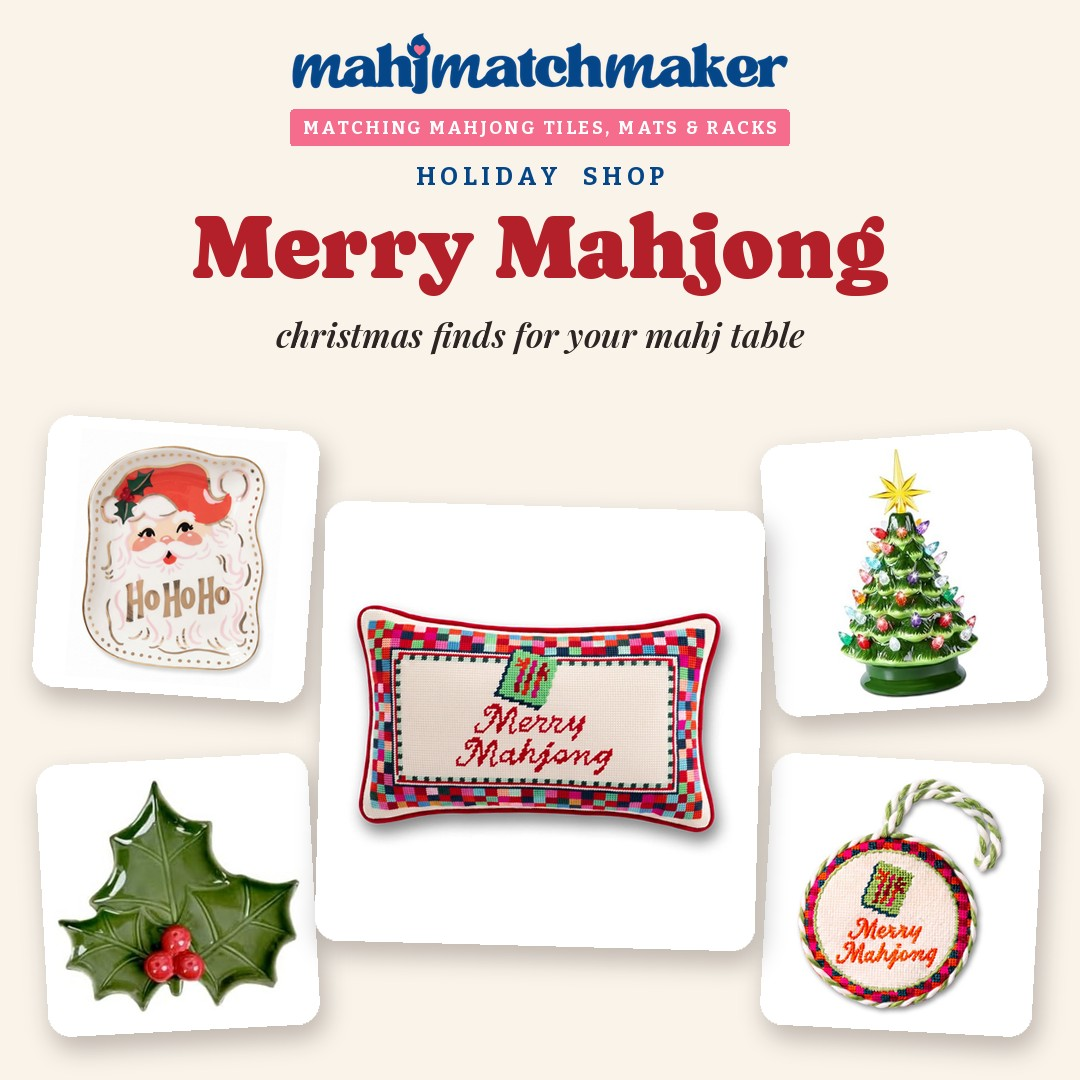
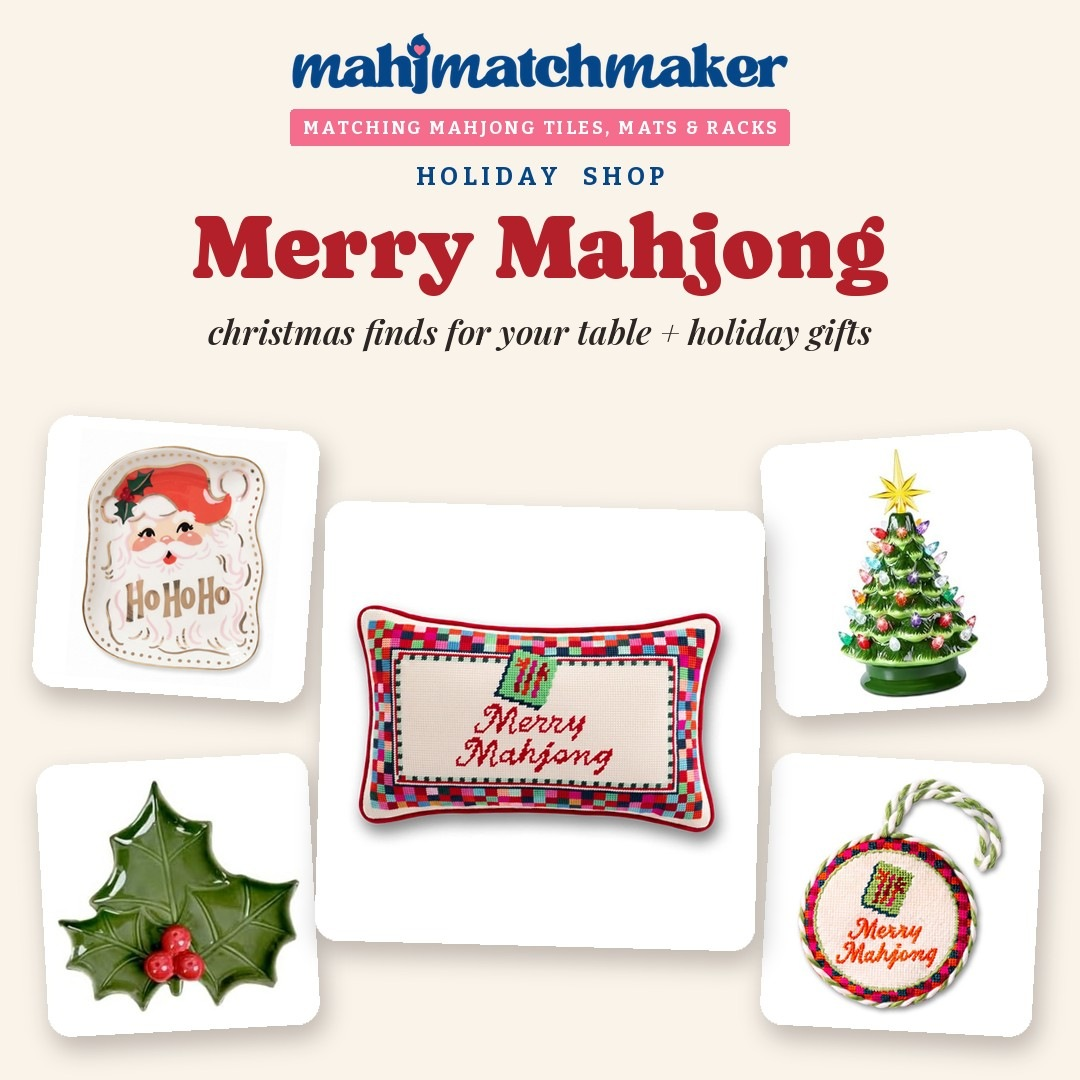
ShopMy Merry Mahjong cover: table finds + holiday gifts
Claude-Session: https://claude.ai/code/session_01PiwamzEftkvrKP5d7A1QEB

Changed region(s): [[0.1833, 0.275, 0.7944, 0.3361]]

diff --git a/scripts/shopmy/make_covers.py b/scripts/shopmy/make_covers.py
@@ -97,7 +97,7 @@ COVERS = [
   [96127861, 96127725, 96127601, 96130241, 96129673]),
  (8399799, 'mahjong-storage', 'Mahjong Storage', 'bags and totes for your set', 'storage', '#054689', 3,
   [96214131, 95958946, 96229865]),
- (8399927, 'merry-mahjong', 'Merry Mahjong', 'christmas finds for your mahj table', 'holiday shop', '#b3202a', 5,
+ (8399927, 'merry-mahjong', 'Merry Mahjong', 'christmas finds for your table + holiday gifts', 'holiday shop', '#b3202a', 5,
   [96216077, 96226001, 96232169, 96232833, 96216391]),
  (8399777, 'mahjong-gifts', 'Mahjong Gifts', 'for every mahj friend on your list', 'gift guide', '#b3202a', 5,
   [96216286, 96213699, 96217133, 96213080, 96213309]),

diff --git a/docs/ANSWERS.md b/docs/ANSWERS.md
@@ -159,3 +159,4 @@ Format: `- YYYY-MM-DD HH:MM · chat · topic · her answer in her words (short) 
 - 2026-10-25 5:54pm: Tiffany: the template samples were built on an OLD match card; she can't judge them. Social mock-ups must always use the CURRENT Find Your Mat-ch card (live artifact 6epA9HuEdT32zUp79Qv3kd). Redo the samples from the live card · DESK Canva item updated.
 - 2026-10-25 5:56pm: Tiffany wants a brand OUTREACH page (for when she contacts a brand first; no "tell me about your brand" ask on it) + a permanent copy-paste outreach blurb in HQ (hq/snippets). First use: Backyard Yacht Club (wooden racks; the site is thin on wooden racks). Old HQ snippets said "Find Your Match" (pre-rename) → replaced. Outreach page = the Work With page (hidden /work-with-us, not live yet; 404) with her Oct 24 l-workwith6 notes applied → Main builds, Ops pastes.
 - 2026-10-25 5:56pm: Tiffany asked how to keep the "Great match!" sticker in Instagram → answered: Instagram's Cutouts sticker saves a sticker made from a photo to the sticker tray for reuse.
+- Oct 25 6:07pm ET: Tiffany decided the ShopMy Merry Mahjong (8399927) tagline/description reads 'christmas finds for your table + holiday gifts' because the board mixes table items and gifts. Cover + description updated.
